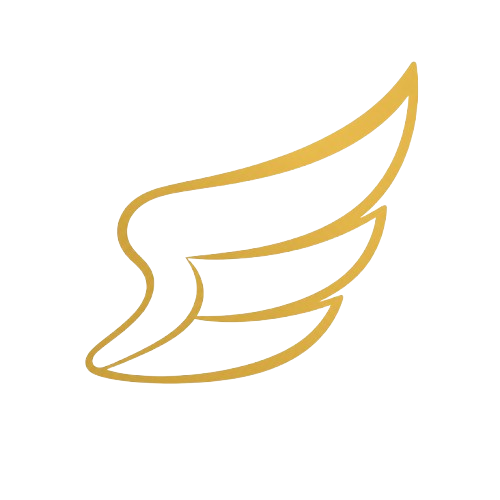
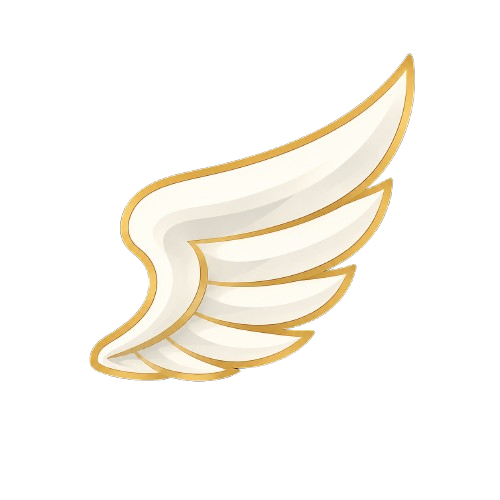
some crusade visuals

Changed region(s): [[0.15, 0.09, 0.84, 0.78]]

diff --git a/game.js b/game.js
@@ -195,7 +195,7 @@ function generateTextures() {
   texCache.voidMiddle = PIXI.Texture.from('https://d1skidder.github.io/circle-game-front/assets/voidMiddleRingClean.png');
   texCache.voidInner  = PIXI.Texture.from('https://d1skidder.github.io/circle-game-front/assets/voidInnerRingClean.png');
   texCache.voidHand = PIXI.Texture.from('https://d1skidder.github.io/circle-game-front/assets/voidHandClean.png');
-  texCache.crusadeWing = PIXI.Texture.from('https://d1skidder.github.io/circle-game-front/assets/CrusadeWingClean.png');
+  texCache.crusadeWing = PIXI.Texture.from('assets/CrusadeWingClean.png');
   texCache.holySword = PIXI.Texture.from('https://d1skidder.github.io/circle-game-front/assets/HolySwordClean.png');
   texCache.iceSword      = texCache.sword;
   texCache.rock          = makeRockTexture();
@@ -621,6 +621,11 @@ function buildPlayerContainer(c, gameClass) {
   // Armor overlay
   const armor = new PIXI.Graphics(); armor.name = 'armor'; c.addChild(armor);
 
+  // Charge wings — shown when isCharging is true
+  const wingGlow = new PIXI.Graphics(); wingGlow.name = 'wingGlow'; wingGlow.visible = false; c.addChild(wingGlow);
+  const wingL = new PIXI.Sprite(texCache.crusadeWing); wingL.anchor.set(0.5); wingL.name = 'wingL'; wingL.visible = false; c.addChild(wingL);
+  const wingR = new PIXI.Sprite(texCache.crusadeWing); wingR.anchor.set(0.5); wingR.name = 'wingR'; wingR.visible = false; c.addChild(wingR);
+
   // Name tag
   const nt = new PIXI.Text('', {
     fontSize: 16,
@@ -704,6 +709,36 @@ function updatePlayerSprite(id, p, now) {
         armor.lineTo(Math.cos(ang + 0.55) * 32, Math.sin(ang + 0.55) * 32);
         armor.lineTo(Math.cos(ang + 0.15) * 22, Math.sin(ang + 0.15) * 22);
         armor.closePath(); armor.endFill();
+      }
+    }
+  }
+
+  // ── CHARGING WINGS ──
+  const pWingL = c.getChildByName('wingL');
+  const pWingR = c.getChildByName('wingR');
+  const pWingGlow = c.getChildByName('wingGlow');
+  if (pWingL && pWingR) {
+    const charging = !!p.isCharging;
+    pWingL.visible = charging;
+    pWingR.visible = charging;
+    if (pWingGlow) pWingGlow.visible = charging;
+    if (charging) {
+      const wScale = 0.28;
+      const spread = 60;
+      // Container is already rotated to `facing`, so local +x = player forward, local ±y = sides
+      pWingL.rotation = Math.PI;
+      pWingL.scale.set(wScale, -wScale);
+      pWingL.x = -10;
+      pWingL.y = -spread;
+      pWingR.rotation = Math.PI;
+      pWingR.scale.set(wScale, wScale);
+      pWingR.x = -10;
+      pWingR.y = spread;
+      if (pWingGlow) {
+        pWingGlow.clear();
+        const pulse = 0.08 + 0.04 * Math.sin(now / 200);
+        pWingGlow.beginFill(0xffd700, pulse * 0.5); pWingGlow.drawCircle(0, 0, spread * 1.1); pWingGlow.endFill();
+        pWingGlow.beginFill(0xffe566, pulse); pWingGlow.drawCircle(0, 0, spread * 0.55); pWingGlow.endFill();
       }
     }
   }
@@ -856,18 +891,10 @@ case 'crusadepull': {
   });
   break;
 }case 'crusadecharge': {
-  const glow = new PIXI.Graphics();
-  glow.name = 'wingGlow';
-
-  const wingL = new PIXI.Sprite(texCache.crusadeWing);
-  wingL.anchor.set(0.5);
-  wingL.name = 'wingL';
-
-  const wingR = new PIXI.Sprite(texCache.crusadeWing);
-  wingR.anchor.set(0.5);
-  wingR.name = 'wingR';
-
-  proj.addChild(glow, wingL, wingR);
+  const chargeTrail = new PIXI.Graphics();
+  chargeTrail.name = 'chargeTrail';
+  proj.addChild(chargeTrail);
+  proj._trailHistory = [];
   break;
 }
 case 'voidorb': {
@@ -1067,34 +1094,23 @@ case 'crusadepull': {
   c.x = lerp(c.x, p.renderX, 0.35);
   c.y = lerp(c.y, p.renderY, 0.35);
 
-  const wingL = c.getChildByName('wingL');
-  const wingR = c.getChildByName('wingR');
-  const glow  = c.getChildByName('wingGlow');
-  const scale = (r * 2) / 350;
-  const spread = r * 1.5;
-
-  if (glow) {
-    glow.clear();
-    const pulse = 0.1 + 0.05 * Math.sin(now / 200);
-    glow.beginFill(0xffd700, pulse * 0.5);
-    glow.drawCircle(0, 0, spread * 1.3);
-    glow.endFill();
-    glow.beginFill(0xffe566, pulse);
-    glow.drawCircle(0, 0, spread * 0.7);
-    glow.endFill();
-  }
-
-  if (wingL) {
-    wingL.rotation = p.dir + Math.PI;
-    wingL.scale.set(scale, scale);
-    wingL.x = Math.cos(p.dir + Math.PI / 2) * spread;
-    wingL.y = Math.sin(p.dir + Math.PI / 2) * spread;
-  }
-  if (wingR) {
-    wingR.rotation = p.dir + Math.PI;
-    wingR.scale.set(scale, -scale);
-    wingR.x = Math.cos(p.dir - Math.PI / 2) * spread;
-    wingR.y = Math.sin(p.dir - Math.PI / 2) * spread;
+  const chargeTrail = c.getChildByName('chargeTrail');
+  if (chargeTrail && c._trailHistory != null) {
+    const jitter = 18;
+    c._trailHistory.push({
+      x: p.renderX + (Math.random() - 0.5) * jitter,
+      y: p.renderY + (Math.random() - 0.5) * jitter,
+      r: 2 + Math.random() * 6,
+    });
+    if (c._trailHistory.length > 22) c._trailHistory.shift();
+    chargeTrail.clear();
+    for (let i = 0; i < c._trailHistory.length; i++) {
+      const pt = c._trailHistory[i];
+      const pct = i / c._trailHistory.length;
+      chargeTrail.beginFill(0xffd700, pct * 0.75);
+      chargeTrail.drawCircle(pt.x - p.renderX, pt.y - p.renderY, pt.r * pct);
+      chargeTrail.endFill();
+    }
   }
   break;
 }
